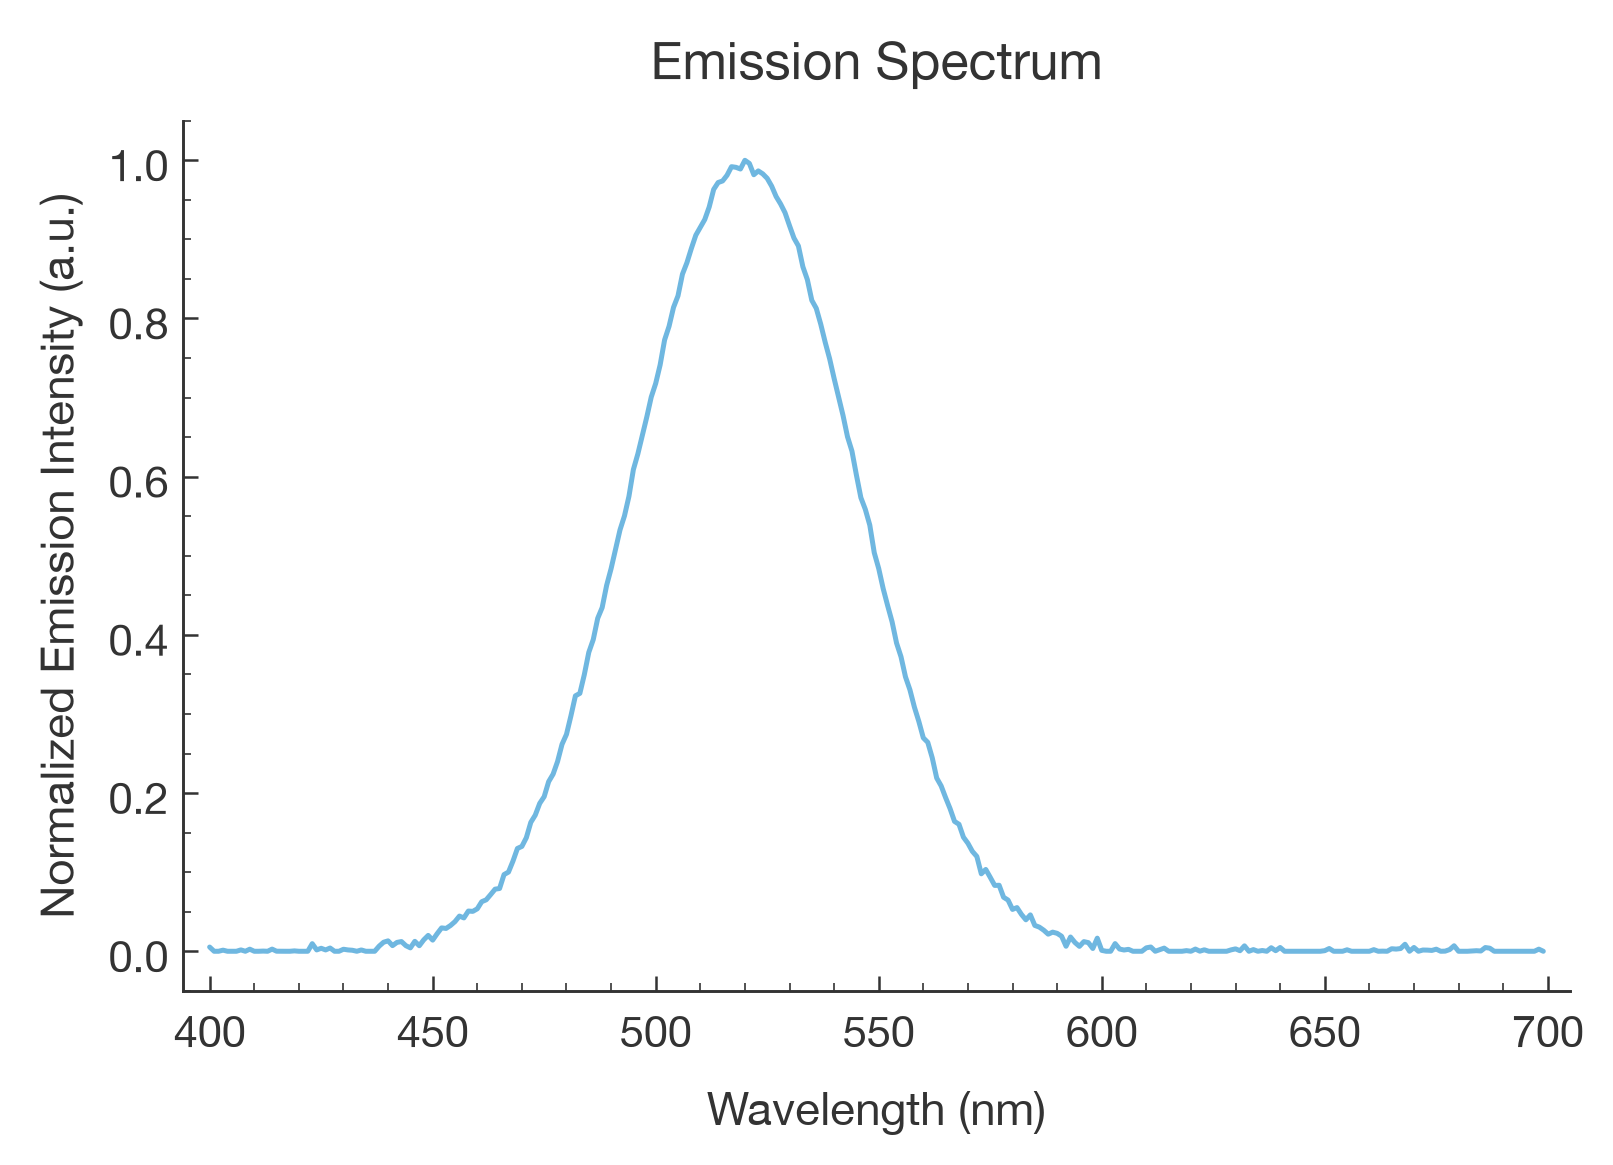
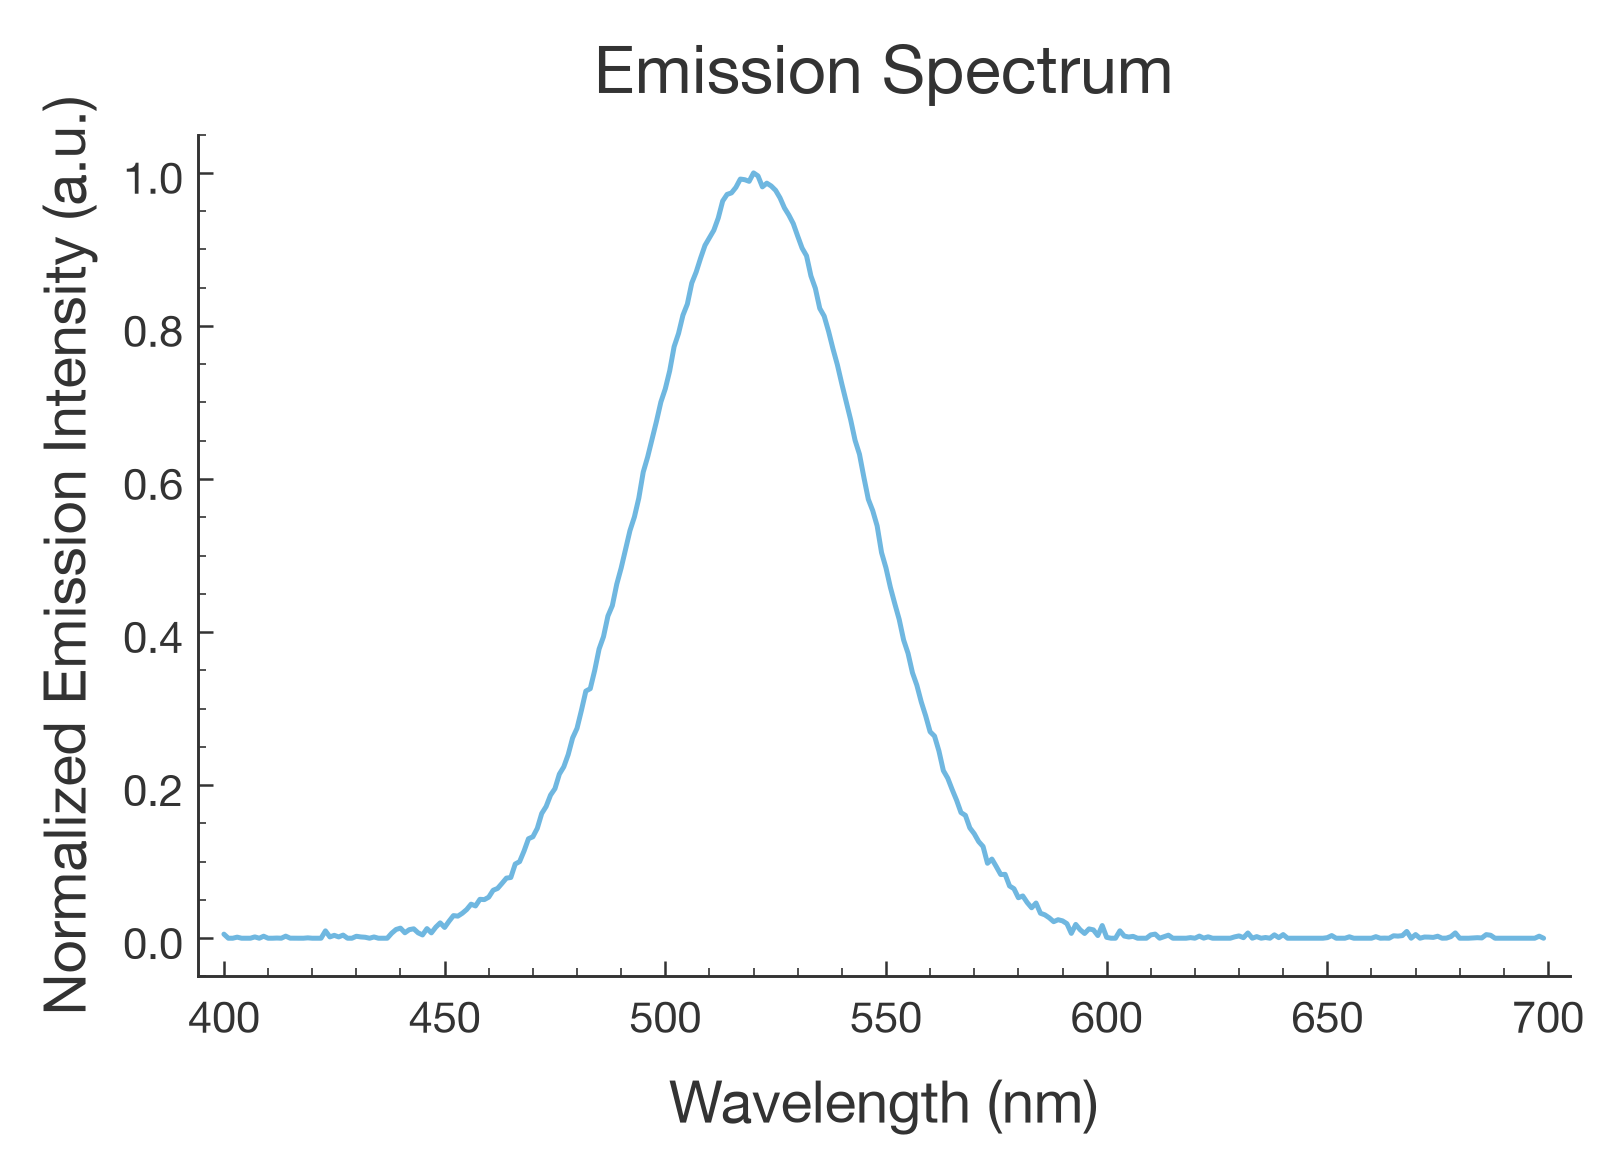
Increase axis label and title font sizes for readability

diff --git a/spectra_plotter.py b/spectra_plotter.py
@@ -40,9 +40,9 @@ plt.rcParams.update({
     "axes.edgecolor": TEXT_COLOR,
     "axes.labelcolor": TEXT_COLOR,
     "axes.linewidth": 0.7,
-    "axes.titlesize": 12,
+    "axes.titlesize": 16,
     "axes.titleweight": "normal",
-    "axes.labelsize": 11,
+    "axes.labelsize": 14,
     "axes.labelweight": "normal",
     "xtick.color": TEXT_COLOR,
     "ytick.color": TEXT_COLOR,
@@ -388,9 +388,9 @@ def plot_spectrum(x, y, data_type: str, source_name: str, output_path: Path, fit
             color=TEXT_COLOR, linespacing=1.7,
         )
 
-    ax.set_xlabel(labels["xlabel"], fontsize=11, labelpad=6)
-    ax.set_ylabel(labels["ylabel"], fontsize=11, labelpad=6)
-    ax.set_title(labels["title"], fontsize=12.5, pad=10)
+    ax.set_xlabel(labels["xlabel"], fontsize=14, labelpad=6)
+    ax.set_ylabel(labels["ylabel"], fontsize=14, labelpad=6)
+    ax.set_title(labels["title"], fontsize=16, pad=10)
 
     ax.spines["top"].set_visible(False)
     ax.spines["right"].set_visible(False)